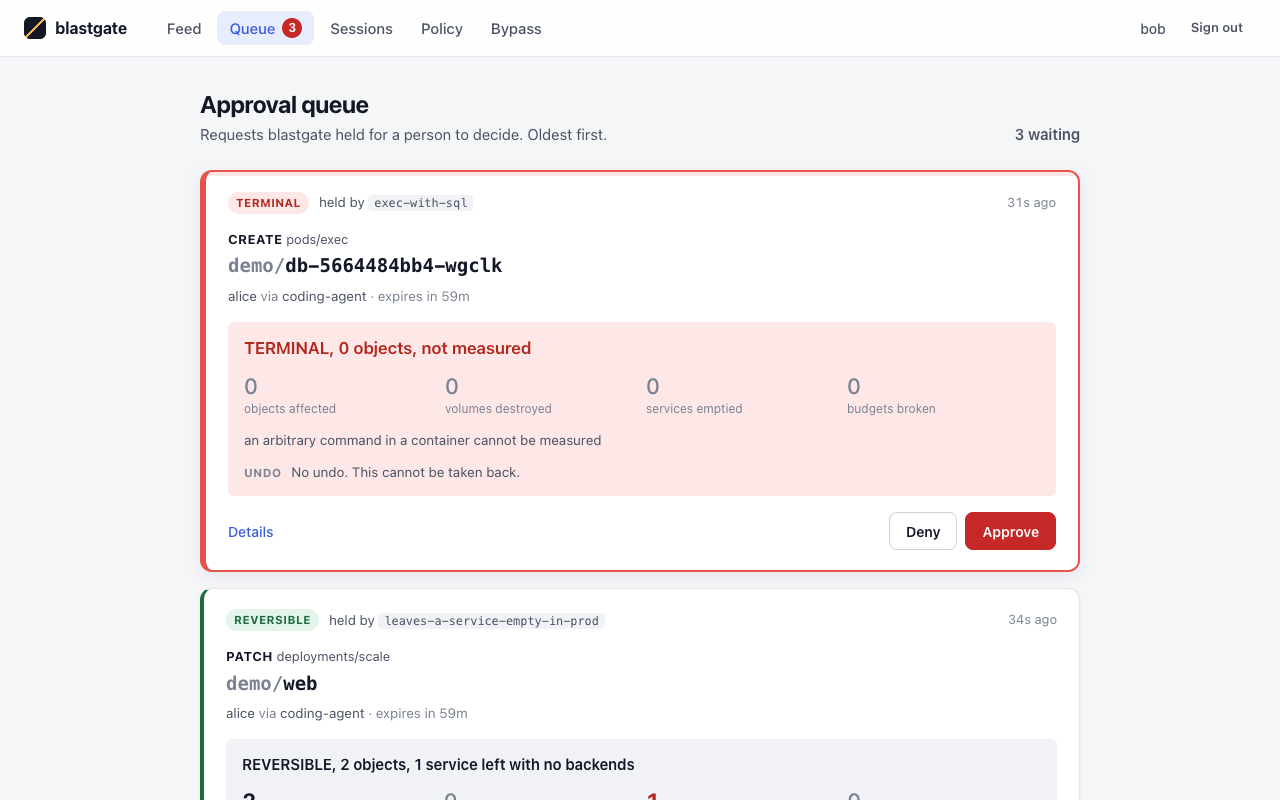
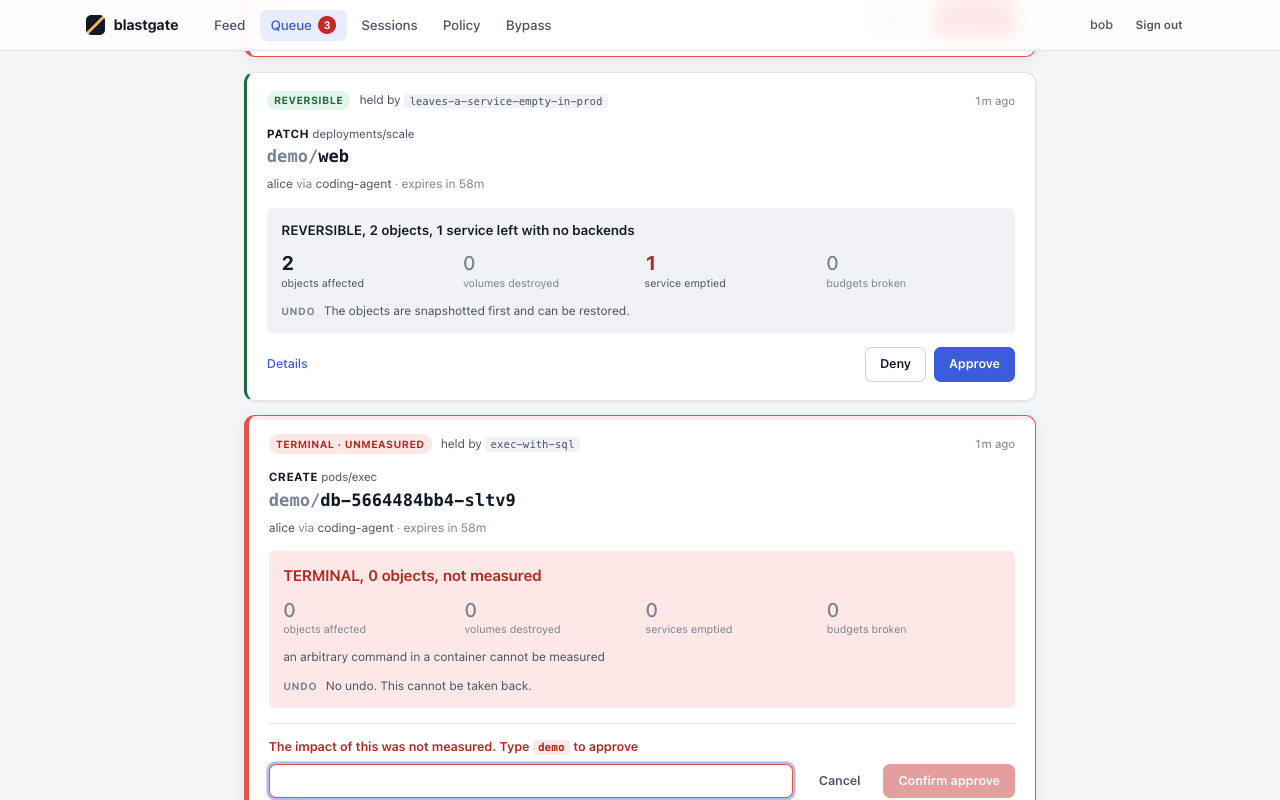
readme: queue order, one feed row per request, known limits, new screenshots

diff --git a/README.md b/README.md
@@ -1,6 +1,6 @@
 # blastgate
 
-![The approval queue in blastgate's web UI: an exec running SQL and a scale to zero, both held for a person to decide](assets/ui-queue.png)
+![The approval queue in blastgate's web UI, oldest first: a scale to zero, then an exec running SQL whose impact could not be measured, waiting for its confirmation to be typed](assets/ui-queue.png)
 
 A gateway between AI agents and Kubernetes. An agent's kubectl talks to blastgate,
 and blastgate forwards each request **as the human who owns the agent's session**,
@@ -201,6 +201,9 @@ always measured again: if the impact has changed — another Service now selects
 pods, a replica appeared — the approval is superseded and a new ticket is issued, with
 "The measured impact changed since the last approval." An approval is spent by one
 request, expires after `BLASTGATE_APPROVAL_TTL`, and a pending one after an hour.
+`blastgate approvals` lists newest first, and shows a pending approval past its hour as
+pending until the agent retries; the web queue leaves it out, and the rest of the web
+UI shows it as expired.
 
 Under the default policy every exec, attach and port-forward is held, since none can
 be measured: approve it while the command waits, or approve and retry.
@@ -220,25 +223,36 @@ blastgate approver revoke <id>          # also ends every browser session bob ho
 1. **Sign in.** Open the admin address and paste the `bga_…` token. The certificate is
    blastgate's serving certificate, signed by its own CA (`<data dir>/tls/ca.crt`): trust
    that CA in the browser, or accept the warning once you have checked it is that CA.
-2. **Queue.** Every pending approval as a card: the class, the rule that held it, the
-   object, the human and agent it came from, and what approving it would do (objects
-   affected, volumes destroyed, Services emptied, disruption budgets broken, and the undo).
+2. **Queue.** Every pending approval that can still be decided, oldest first, since the
+   oldest is the one closest to expiring. Each is a card: the class, the rule that held
+   it, the object, the human and agent it came from, and what approving it would do
+   (objects affected, volumes destroyed, Services emptied, disruption budgets broken, and
+   the undo). A request blastgate could not measure (an exec, a proxied request, a
+   scoring timeout) is marked `TERMINAL · UNMEASURED`: its zero counts mean nothing was
+   measured, not that nothing happens. A pending approval past its hour leaves the queue.
    The count in the navigation updates live over a server-sent event stream.
 3. **Impact.** *Details* opens the approval: the parsed action, and the measured impact as
    a tree, object by object, each with why it is affected.
 
    ![The impact tree for a held claim delete: the claim, and the volume whose data it destroys](assets/ui-impact.png)
 
-4. **Approve or deny.** The decision is recorded under the name of the signed-in approver,
+4. **Approve or deny.** Approving something that destroys data, or whose impact was not
+   measured, needs the namespace typed out first (for a cluster-scoped request, its
+   name or resource). The decision is recorded under the name of the signed-in approver,
    never a name from the request. The agent's held request is released (or refused) exactly
    as with `blastgate approve`/`deny`, which keep working.
 
 The other pages:
 
-- **Feed**: every request the agents sent, newest first, filtered by agent, human, class
-  or decision, with new rows arriving live.
+- **Feed**: every request the agents sent, one row each, newest first, filtered by
+  agent, human, class or decision, with new rows arriving live. A write is recorded
+  twice, when it is decided and when it ends, and the feed folds the two into one row:
+  until the request ends (an exec that is still running, say) its status reads
+  *in flight*. Reads are `READ` and greyed out, so the writes stand out. kubectl
+  retries an exec over SPDY when its WebSocket attempt is refused, so one held exec
+  shows as two requests.
 
-  ![The live feed: reads allowed, and an exec, a scale and a claim delete held](assets/ui-feed.png)
+  ![The live feed: two held exec attempts, reads allowed, a scale and a claim delete held](assets/ui-feed.png)
 
 - **Sessions**: the agents' sessions, with *Revoke*, which stops the session's next request.
 - **Policy**: the running policy, and a replay of a candidate over the last hours of
@@ -248,6 +262,10 @@ The other pages:
   ![A policy replay: a candidate that denies instead of holding would have changed three decisions](assets/ui-policy.png)
 
 - **Bypass**: the writes the webhook recorded (below).
+
+Each sign-in can hold four live streams (one per tab) and the server 32 in all. A tab
+over the limit says *Too many open tabs* where the feed says *Live*, and keeps retrying,
+backing off from 5 seconds to a minute, until another tab closes.
 
 `scripts/demo.sh` builds that scene on the kind fixture: it starts blastgate, registers
 the webhook, creates the approver `bob` and a session for alice's `coding-agent`, holds a
@@ -555,6 +573,22 @@ A session for anyone else is then refused by the API server itself.
 - Cut connections already open. Revoking a session, or its expiry, stops every new
   request at once, but an exec, attach, port-forward, watch or `logs -f` that is
   already streaming carries on until it ends. Closing those is planned.
+
+## Known limits
+
+- **Replay is capped by rows, not bytes.** One replay reads at most the newest 100,000
+  decisions in its window (and says so when it stops there), and only one runs at a
+  time. Each row carries its stored impact, so a window full of large impacts (a
+  `deletecollection` touching thousands of objects, say) can still take a lot of memory
+  for that one replay.
+- **"Decided by" is a name, not an identity.** A decision from the web UI records the
+  signed-in approver's name. `blastgate approve --by` records whatever text it is given,
+  checked against nothing, and the two read the same in the record. A revoked
+  approver's name can be given to a new approver. Anyone who can run `blastgate approve`
+  already holds the signing key and the data directory, so the CLI is trusted, but its
+  names are claims, not logins.
+- **The bypass table is never pruned** (see
+  [Writes that go around blastgate](#writes-that-go-around-blastgate)).
 
 ## Verified
 
